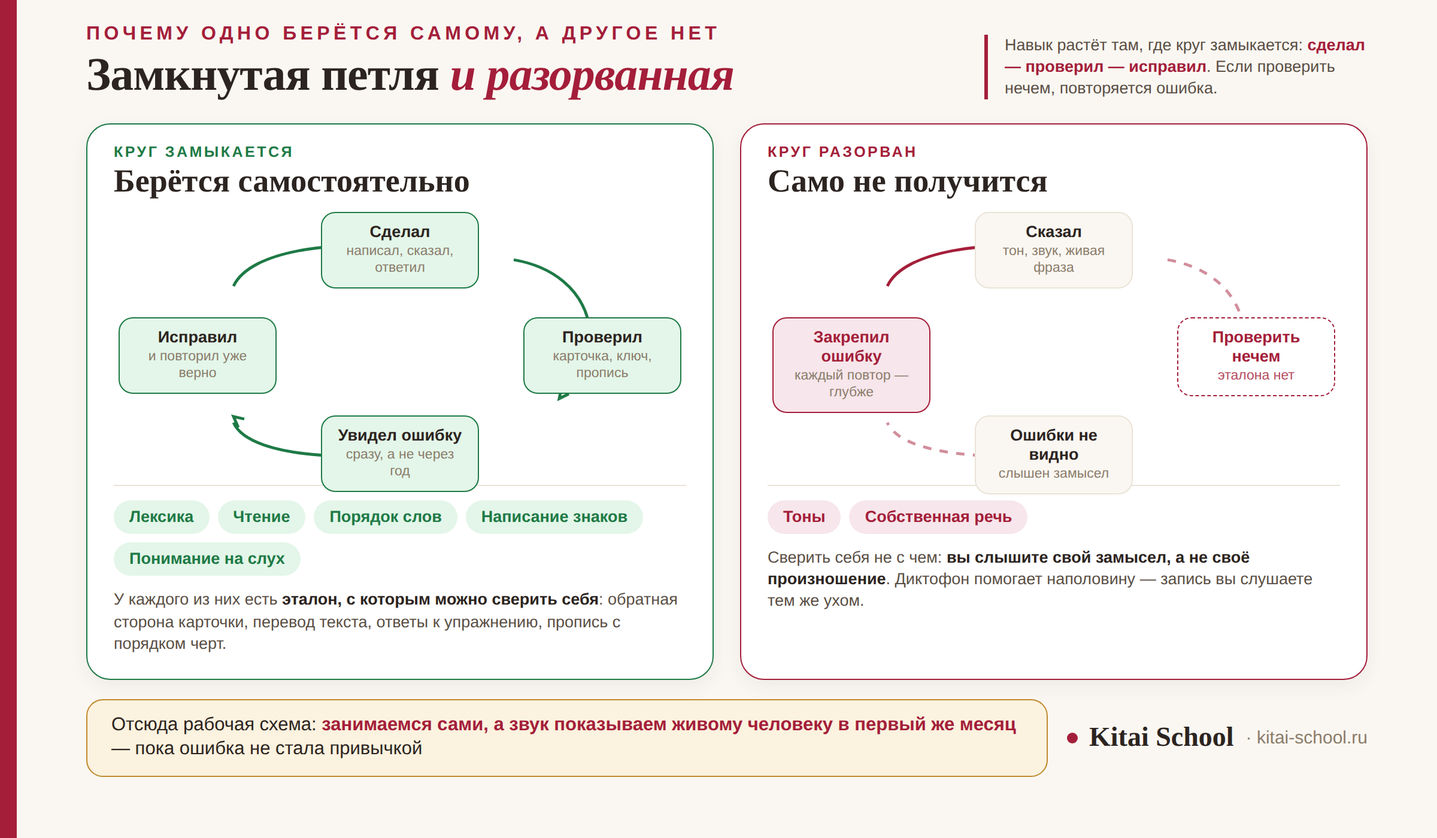
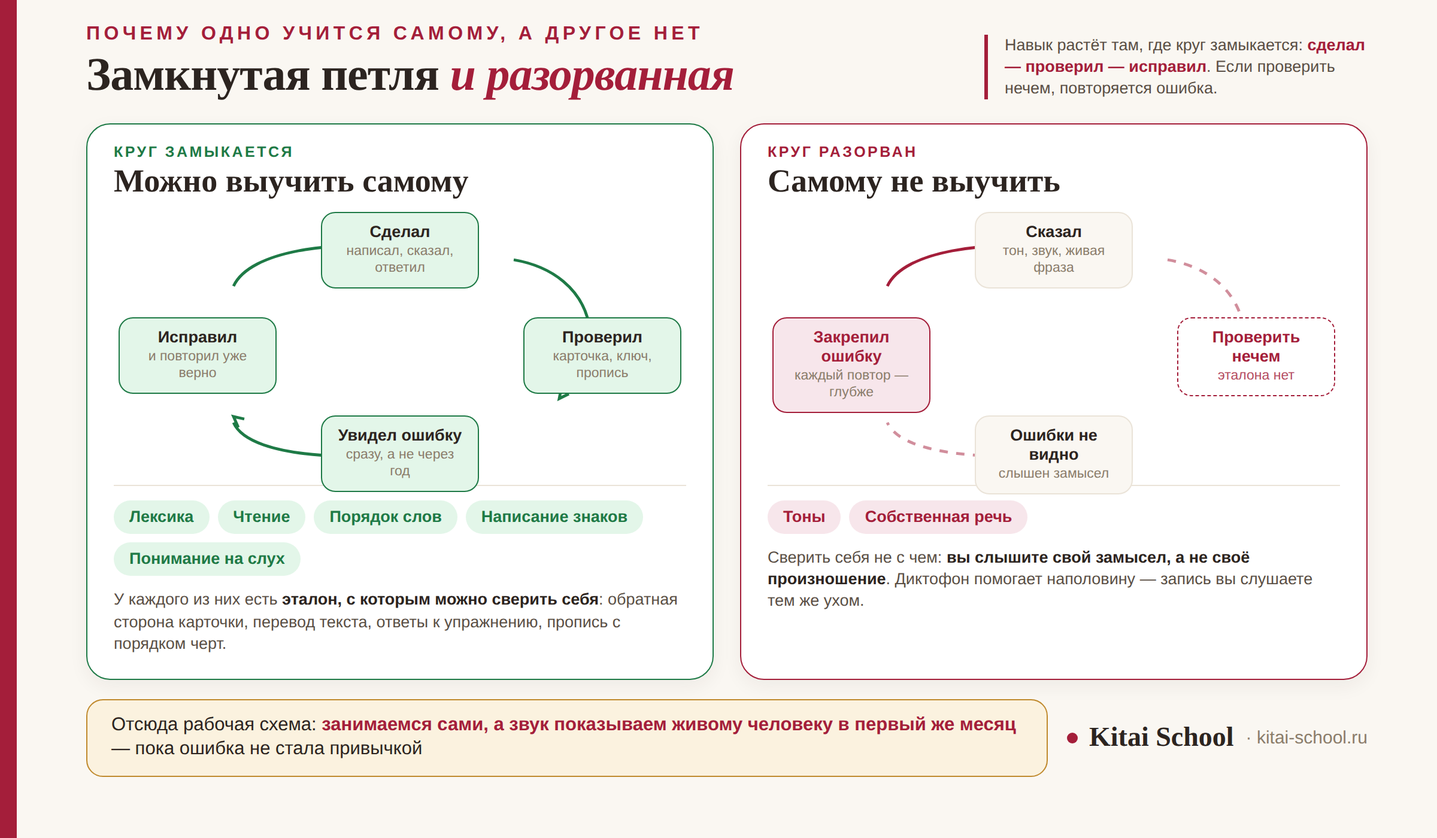
Заменить формулировку «берётся самому» на «можно выучить самому»
Правка по всей статье, обеим картинкам, тайтлу, дескрипшену и ТЗ.

Claude-Session: https://claude.ai/code/session_017dS7Wuw6MNB5fnZSr6hVh2

Changed region(s): [[0.1875, 0.0307, 0.5, 0.0614], [0.0625, 0.1843, 0.3438, 0.2457], [0.5938, 0.215, 0.75, 0.2457]]

diff --git a/content/blog/izuchenie-kitayskogo-yazyka-s-nulya.html b/content/blog/izuchenie-kitayskogo-yazyka-s-nulya.html
@@ -3,20 +3,20 @@
 <head>
 <meta charset="utf-8">
 <meta name="viewport" content="width=device-width, initial-scale=1">
-<title>Изучение китайского языка с нуля: с чего начать, что берётся самому и где нужен преподаватель</title>
-<meta name="description" content="Изучение китайского языка с нуля начинается не с иероглифов и не со списка слов, а с трёх дел первой недели. Разбираем, что в китайском спокойно берётся самостоятельно, а что без обратной связи закрепляется с ошибкой, какой минимальный набор нужен для старта — словарь, учебник, карточки — и что на самом деле стоит за обещаниями «150 слов» и «заговорить за три месяца».">
+<title>Изучение китайского языка с нуля: с чего начать, что можно выучить самому и где нужен преподаватель</title>
+<meta name="description" content="Изучение китайского языка с нуля начинается не с иероглифов и не со списка слов, а с трёх дел первой недели. Разбираем, что в китайском спокойно учится самостоятельно, а что без обратной связи закрепляется с ошибкой, какой минимальный набор нужен для старта — словарь, учебник, карточки — и что на самом деле стоит за обещаниями «150 слов» и «заговорить за три месяца».">
 <link rel="canonical" href="https://kitai-school.ru/article/izuchenie-kitayskogo-yazyka-s-nulya">
 <meta property="og:type" content="article">
-<meta property="og:title" content="Изучение китайского языка с нуля: с чего начать, что берётся самому и где нужен преподаватель">
-<meta property="og:description" content="Три дела первой недели, граница между тем, что берётся самому и что нет, минимальный набор для старта и честный разбор обещаний «150 слов» и «за три месяца».">
+<meta property="og:title" content="Изучение китайского языка с нуля: с чего начать, что можно выучить самому и где нужен преподаватель">
+<meta property="og:description" content="Три дела первой недели, граница между тем, что можно выучить самому и что нет, минимальный набор для старта и честный разбор обещаний «150 слов» и «за три месяца».">
 <meta property="og:url" content="https://kitai-school.ru/article/izuchenie-kitayskogo-yazyka-s-nulya">
 <meta property="og:site_name" content="Kitai School">
 <meta property="og:locale" content="ru_RU">
 <meta property="article:published_time" content="2026-09-08">
 <meta property="article:author" content="Юлия Горяина">
 <meta name="twitter:card" content="summary_large_image">
-<meta name="twitter:title" content="Изучение китайского языка с нуля: с чего начать, что берётся самому и где нужен преподаватель">
-<meta name="twitter:description" content="Три дела первой недели, граница между тем, что берётся самому и что нет, минимальный набор для старта и честный разбор обещаний «150 слов» и «за три месяца».">
+<meta name="twitter:title" content="Изучение китайского языка с нуля: с чего начать, что можно выучить самому и где нужен преподаватель">
+<meta name="twitter:description" content="Три дела первой недели, граница между тем, что можно выучить самому и что нет, минимальный набор для старта и честный разбор обещаний «150 слов» и «за три месяца».">
 
 <script type="application/ld+json">
 {
@@ -25,8 +25,8 @@
     {
       "@type": "BlogPosting",
       "@id": "https://kitai-school.ru/article/izuchenie-kitayskogo-yazyka-s-nulya#article",
-      "headline": "Изучение китайского языка с нуля: с чего начать, что берётся самому и где нужен преподаватель",
-      "description": "Три дела первой недели, граница между тем, что берётся самому и что нет, минимальный набор для старта и честный разбор обещаний «150 слов» и «за три месяца».",
+      "headline": "Изучение китайского языка с нуля: с чего начать, что можно выучить самому и где нужен преподаватель",
+      "description": "Три дела первой недели, граница между тем, что можно выучить самому и что нет, минимальный набор для старта и честный разбор обещаний «150 слов» и «за три месяца».",
       "datePublished": "2026-09-08",
       "dateModified": "2026-09-08",
       "inLanguage": "ru",
@@ -62,7 +62,7 @@
         {
           "@type": "Question",
           "name": "Можно ли выучить китайский с нуля самостоятельно?",
-          "acceptedAnswer": {"@type": "Answer", "text": "Частично — и важно понимать, где проходит граница. Всё, что можно проверить самому, берётся самостоятельно прекрасно: лексика по карточкам, чтение с переводом, порядок слов по упражнениям с ответами, написание знаков по прописи. А вот тоны и собственная речь — нет: у них нет способа самопроверки, потому что вы слышите то, что хотели сказать, а не то, что сказали. Ошибка в тоне закрепляется за пару недель, а переучивается месяцами. Разумный вариант — самостоятельная работа плюс несколько занятий с преподавателем именно на постановку звука."}
+          "acceptedAnswer": {"@type": "Answer", "text": "Частично — и важно понимать, где проходит граница. Всё, что можно проверить самому, учится прекрасно: лексика по карточкам, чтение с переводом, порядок слов по упражнениям с ответами, написание знаков по прописи. А вот тоны и собственная речь — нет: у них нет способа самопроверки, потому что вы слышите то, что хотели сказать, а не то, что сказали. Ошибка в тоне закрепляется за пару недель, а переучивается месяцами. Разумный вариант — самостоятельная работа плюс несколько занятий с преподавателем именно на постановку звука."}
         },
         {
           "@type": "Question",
@@ -92,7 +92,7 @@
       "itemListElement": [
         {"@type": "ListItem", "position": 1, "name": "Главная", "item": "https://kitai-school.ru"},
         {"@type": "ListItem", "position": 2, "name": "Блог", "item": "https://kitai-school.ru/blog"},
-        {"@type": "ListItem", "position": 3, "name": "Изучение китайского языка с нуля: с чего начать, что берётся самому и где нужен преподаватель", "item": "https://kitai-school.ru/article/izuchenie-kitayskogo-yazyka-s-nulya"}
+        {"@type": "ListItem", "position": 3, "name": "Изучение китайского языка с нуля: с чего начать, что можно выучить самому и где нужен преподаватель", "item": "https://kitai-school.ru/article/izuchenie-kitayskogo-yazyka-s-nulya"}
       ]
     }
   ]
@@ -223,7 +223,7 @@
 <main id="ks-art">
 <article>
 <p class="eyebrow">О языке и обучении</p>
-<h1>Изучение китайского языка с нуля: <span class="italic">с чего начать, что берётся самому и где нужен преподаватель</span></h1>
+<h1>Изучение китайского языка с нуля: <span class="italic">с чего начать, что можно выучить самому и где нужен преподаватель</span></h1>
 
 <div class="byline">
   <a href="https://kitai-school.ru/about" target="_blank" rel="noopener"><img src="https://static.tildacdn.com/tild3265-6431-4361-a262-343162663636/DSC01652_1.jpg" alt="Юлия Горяина, основатель Kitai School"></a>
@@ -236,11 +236,11 @@
 
 <figure class="ks-hero"><img src="assets/izuchenie-kitayskogo-yazyka-s-nulya.png" alt="Три дорожки от нуля: звук, знак и фраза" width="1200" height="630"></figure>
 
-<p class="passport">Почти все, кто начинает <b>учить китайский с нуля</b>, спотыкаются об один и тот же вопрос: с чего вообще браться. Иероглифы выглядят непреодолимо, списки слов лежат мёртвым грузом, а приложений столько, что выбор превращается в отдельное занятие. Разберём старт по делу: что делают в первую неделю, что в китайском спокойно берётся самому, а что без живого человека закрепляется с ошибкой.</p>
+<p class="passport">Почти все, кто начинает <b>учить китайский с нуля</b>, спотыкаются об один и тот же вопрос: с чего вообще браться. Иероглифы выглядят непреодолимо, списки слов лежат мёртвым грузом, а приложений столько, что выбор превращается в отдельное занятие. Разберём старт по делу: что делают в первую неделю, что в китайском спокойно учится самому, а что без живого человека закрепляется с ошибкой.</p>
 
 <div class="tldr">
   <b>Коротко</b>
-  <p>Первая неделя — это <b>не иероглифы и не список слов</b>, а три вещи: услышать четыре тона, разобрать пиньинь как правила чтения и произнести вслух десяток фраз. Дальше работает простое правило: <b>самому берётся всё, что можно проверить</b> — лексика, чтение, порядок слов, написание знаков. Не берётся то, где проверить нечем: тоны и собственная речь. Набор для старта маленький: словарь, учебник с аудио и карточки. Обещания «150 слов» и «заговорить за три месяца» не врут, но означают не то, что кажется.</p>
+  <p>Первая неделя — это <b>не иероглифы и не список слов</b>, а три вещи: услышать четыре тона, разобрать пиньинь как правила чтения и произнести вслух десяток фраз. Дальше работает простое правило: <b>самому учится всё, что можно проверить</b> — лексика, чтение, порядок слов, написание знаков. Не учится то, где проверить нечем: тоны и собственная речь. Набор для старта маленький: словарь, учебник с аудио и карточки. Обещания «150 слов» и «заговорить за три месяца» не врут, но означают не то, что кажется.</p>
 </div>
 
 <h2>Первая неделя: <span class="italic">три дела вместо тридцати</span></h2>
@@ -258,7 +258,7 @@
 </div>
 <p class="note">И столь же важно, чего в первую неделю <b>не делают</b>: не учат список слов, не садятся прописывать иероглифы и не покупают три учебника разом. Знаки подключают следующим шагом, когда несколько десятков слов уже звучат уверенно — весь маршрут по шагам разобран отдельно, по <a href="https://kitai-school.ru/article/tapy-izucheniya-kitayskogo" target="_blank" rel="noopener">этапам изучения китайского</a>.</p>
 
-<h2>Что берётся самому, <span class="italic">а что нет</span></h2>
+<h2>Что можно выучить самому, <span class="italic">а что нет</span></h2>
 <p>Здесь обычно и ломается самостоятельное обучение — но не там, где ждут. Дело не в силе воли и не в способностях, а в устройстве обратной связи.</p>
 <p>Любой навык растёт по кругу: сделал — проверил — исправил. Если проверить себя нечем, круг разрывается: вы продолжаете повторять, но повторяете <b>ошибку</b>, и с каждым разом она садится прочнее.</p>
 <div class="table-wrap">
@@ -266,17 +266,17 @@
   <caption>Где проверка есть, а где её нет.</caption>
   <thead><tr><th>Что осваиваем</th><th>Чем проверить себя</th><th>Вывод</th></tr></thead>
   <tbody>
-    <tr><td><b>Лексика</b></td><td>обратная сторона карточки</td><td class="ok">берётся самому</td></tr>
-    <tr><td><b>Чтение</b></td><td>текст с переводом и разбором</td><td class="ok">берётся самому</td></tr>
-    <tr><td><b>Порядок слов</b></td><td>ответы к упражнениям</td><td class="ok">берётся самому</td></tr>
-    <tr><td><b>Написание знаков</b></td><td>пропись с порядком черт</td><td class="ok">берётся самому, если сразу с прописью</td></tr>
-    <tr><td><b>Понимание на слух</b></td><td>расшифровка записи</td><td class="ok">берётся самому</td></tr>
+    <tr><td><b>Лексика</b></td><td>обратная сторона карточки</td><td class="ok">можно самому</td></tr>
+    <tr><td><b>Чтение</b></td><td>текст с переводом и разбором</td><td class="ok">можно самому</td></tr>
+    <tr><td><b>Порядок слов</b></td><td>ответы к упражнениям</td><td class="ok">можно самому</td></tr>
+    <tr><td><b>Написание знаков</b></td><td>пропись с порядком черт</td><td class="ok">можно самому, если сразу с прописью</td></tr>
+    <tr><td><b>Понимание на слух</b></td><td>расшифровка записи</td><td class="ok">можно самому</td></tr>
     <tr><td class="bad"><b>Тоны</b></td><td class="bad">нечем: свою ошибку не слышно</td><td class="bad">нужен живой человек</td></tr>
     <tr><td class="bad"><b>Собственная речь</b></td><td class="bad">нечем: некому переспросить</td><td class="bad">нужен живой человек</td></tr>
   </tbody>
 </table>
 </div>
-<figure class="ks-fig"><img src="assets/izuchenie-kitayskogo-yazyka-s-nulya-petlya.png" alt="Замкнутая и разорванная петля обратной связи в изучении языка" loading="lazy" width="1200" height="700"><figcaption>Всё, что можно проверить самому, берётся самостоятельно. Там, где проверить нечем, повторение закрепляет ошибку.</figcaption></figure>
+<figure class="ks-fig"><img src="assets/izuchenie-kitayskogo-yazyka-s-nulya-petlya.png" alt="Замкнутая и разорванная петля обратной связи в изучении языка" loading="lazy" width="1200" height="700"><figcaption>Всё, что можно проверить самому, учится самостоятельно. Там, где проверить нечем, повторение закрепляет ошибку.</figcaption></figure>
 <p class="note">Причина у двух последних строк одна и совсем не очевидная: <b>вы слышите то, что хотели сказать, а не то, что сказали</b>. Диктофон помогает наполовину, потому что и запись вы слушаете тем же ухом. Ошибка в тоне садится за пару недель, а переучивается месяцами — поэтому разумная схема выглядит так: работаем сами, а на постановку звука берём несколько занятий с преподавателем. Что именно там ставят, разобрано в статье о <a href="https://kitai-school.ru/article/korrektirovka-proiznosheniya-v-kitayskom" target="_blank" rel="noopener">корректировке произношения</a>.</p>
 
 <div class="story">
@@ -343,7 +343,7 @@
   </details>
   <details class="ksfaq-item">
     <summary class="ksfaq-q"><span>Можно ли выучить китайский с нуля самостоятельно?</span><i class="ksfaq-chev"></i></summary>
-    <div class="ksfaq-a"><p>Частично — и важно понимать, где проходит граница. Всё, что можно проверить самому, берётся самостоятельно прекрасно: лексика по карточкам, чтение с переводом, порядок слов по упражнениям с ответами, написание знаков по прописи. А вот тоны и собственная речь — нет: у них нет способа самопроверки, потому что вы слышите то, что хотели сказать, а не то, что сказали. Ошибка в тоне закрепляется за пару недель, а переучивается месяцами. Разумный вариант — самостоятельная работа плюс несколько занятий с преподавателем именно на постановку звука.</p></div>
+    <div class="ksfaq-a"><p>Частично — и важно понимать, где проходит граница. Всё, что можно проверить самому, учится прекрасно: лексика по карточкам, чтение с переводом, порядок слов по упражнениям с ответами, написание знаков по прописи. А вот тоны и собственная речь — нет: у них нет способа самопроверки, потому что вы слышите то, что хотели сказать, а не то, что сказали. Ошибка в тоне закрепляется за пару недель, а переучивается месяцами. Разумный вариант — самостоятельная работа плюс несколько занятий с преподавателем именно на постановку звука.</p></div>
   </details>
   <details class="ksfaq-item">
     <summary class="ksfaq-q"><span>Какие приложения и учебники нужны для старта?</span><i class="ksfaq-chev"></i></summary>

diff --git a/content/blog/izuchenie-kitayskogo-yazyka-s-nulya.TILDA.html b/content/blog/izuchenie-kitayskogo-yazyka-s-nulya.TILDA.html
@@ -122,8 +122,8 @@
     {
       "@type": "BlogPosting",
       "@id": "https://kitai-school.ru/article/izuchenie-kitayskogo-yazyka-s-nulya#article",
-      "headline": "Изучение китайского языка с нуля: с чего начать, что берётся самому и где нужен преподаватель",
-      "description": "Три дела первой недели, граница между тем, что берётся самому и что нет, минимальный набор для старта и честный разбор обещаний «150 слов» и «за три месяца».",
+      "headline": "Изучение китайского языка с нуля: с чего начать, что можно выучить самому и где нужен преподаватель",
+      "description": "Три дела первой недели, граница между тем, что можно выучить самому и что нет, минимальный набор для старта и честный разбор обещаний «150 слов» и «за три месяца».",
       "datePublished": "2026-09-08",
       "dateModified": "2026-09-08",
       "inLanguage": "ru",
@@ -159,7 +159,7 @@
         {
           "@type": "Question",
           "name": "Можно ли выучить китайский с нуля самостоятельно?",
-          "acceptedAnswer": {"@type": "Answer", "text": "Частично — и важно понимать, где проходит граница. Всё, что можно проверить самому, берётся самостоятельно прекрасно: лексика по карточкам, чтение с переводом, порядок слов по упражнениям с ответами, написание знаков по прописи. А вот тоны и собственная речь — нет: у них нет способа самопроверки, потому что вы слышите то, что хотели сказать, а не то, что сказали. Ошибка в тоне закрепляется за пару недель, а переучивается месяцами. Разумный вариант — самостоятельная работа плюс несколько занятий с преподавателем именно на постановку звука."}
+          "acceptedAnswer": {"@type": "Answer", "text": "Частично — и важно понимать, где проходит граница. Всё, что можно проверить самому, учится прекрасно: лексика по карточкам, чтение с переводом, порядок слов по упражнениям с ответами, написание знаков по прописи. А вот тоны и собственная речь — нет: у них нет способа самопроверки, потому что вы слышите то, что хотели сказать, а не то, что сказали. Ошибка в тоне закрепляется за пару недель, а переучивается месяцами. Разумный вариант — самостоятельная работа плюс несколько занятий с преподавателем именно на постановку звука."}
         },
         {
           "@type": "Question",
@@ -189,7 +189,7 @@
       "itemListElement": [
         {"@type": "ListItem", "position": 1, "name": "Главная", "item": "https://kitai-school.ru"},
         {"@type": "ListItem", "position": 2, "name": "Блог", "item": "https://kitai-school.ru/blog"},
-        {"@type": "ListItem", "position": 3, "name": "Изучение китайского языка с нуля: с чего начать, что берётся самому и где нужен преподаватель", "item": "https://kitai-school.ru/article/izuchenie-kitayskogo-yazyka-s-nulya"}
+        {"@type": "ListItem", "position": 3, "name": "Изучение китайского языка с нуля: с чего начать, что можно выучить самому и где нужен преподаватель", "item": "https://kitai-school.ru/article/izuchenie-kitayskogo-yazyka-s-nulya"}
       ]
     }
   ]
@@ -199,7 +199,7 @@
 <main id="ks-art">
 <article>
 <p class="eyebrow">О языке и обучении</p>
-<h1>Изучение китайского языка с нуля: <span class="italic">с чего начать, что берётся самому и где нужен преподаватель</span></h1>
+<h1>Изучение китайского языка с нуля: <span class="italic">с чего начать, что можно выучить самому и где нужен преподаватель</span></h1>
 
 <div class="byline">
   <a href="https://kitai-school.ru/about" target="_blank" rel="noopener"><img src="https://static.tildacdn.com/tild3265-6431-4361-a262-343162663636/DSC01652_1.jpg" alt="Юлия Горяина, основатель Kitai School"></a>
@@ -212,11 +212,11 @@
 
 <figure class="ks-hero"><img src="assets/izuchenie-kitayskogo-yazyka-s-nulya.png" alt="Три дорожки от нуля: звук, знак и фраза" width="1200" height="630"></figure>
 
-<p class="passport">Почти все, кто начинает <b>учить китайский с нуля</b>, спотыкаются об один и тот же вопрос: с чего вообще браться. Иероглифы выглядят непреодолимо, списки слов лежат мёртвым грузом, а приложений столько, что выбор превращается в отдельное занятие. Разберём старт по делу: что делают в первую неделю, что в китайском спокойно берётся самому, а что без живого человека закрепляется с ошибкой.</p>
+<p class="passport">Почти все, кто начинает <b>учить китайский с нуля</b>, спотыкаются об один и тот же вопрос: с чего вообще браться. Иероглифы выглядят непреодолимо, списки слов лежат мёртвым грузом, а приложений столько, что выбор превращается в отдельное занятие. Разберём старт по делу: что делают в первую неделю, что в китайском спокойно учится самому, а что без живого человека закрепляется с ошибкой.</p>
 
 <div class="tldr">
   <b>Коротко</b>
-  <p>Первая неделя — это <b>не иероглифы и не список слов</b>, а три вещи: услышать четыре тона, разобрать пиньинь как правила чтения и произнести вслух десяток фраз. Дальше работает простое правило: <b>самому берётся всё, что можно проверить</b> — лексика, чтение, порядок слов, написание знаков. Не берётся то, где проверить нечем: тоны и собственная речь. Набор для старта маленький: словарь, учебник с аудио и карточки. Обещания «150 слов» и «заговорить за три месяца» не врут, но означают не то, что кажется.</p>
+  <p>Первая неделя — это <b>не иероглифы и не список слов</b>, а три вещи: услышать четыре тона, разобрать пиньинь как правила чтения и произнести вслух десяток фраз. Дальше работает простое правило: <b>самому учится всё, что можно проверить</b> — лексика, чтение, порядок слов, написание знаков. Не учится то, где проверить нечем: тоны и собственная речь. Набор для старта маленький: словарь, учебник с аудио и карточки. Обещания «150 слов» и «заговорить за три месяца» не врут, но означают не то, что кажется.</p>
 </div>
 
 <h2>Первая неделя: <span class="italic">три дела вместо тридцати</span></h2>
@@ -234,7 +234,7 @@
 </div>
 <p class="note">И столь же важно, чего в первую неделю <b>не делают</b>: не учат список слов, не садятся прописывать иероглифы и не покупают три учебника разом. Знаки подключают следующим шагом, когда несколько десятков слов уже звучат уверенно — весь маршрут по шагам разобран отдельно, по <a href="https://kitai-school.ru/article/tapy-izucheniya-kitayskogo" target="_blank" rel="noopener">этапам изучения китайского</a>.</p>
 
-<h2>Что берётся самому, <span class="italic">а что нет</span></h2>
+<h2>Что можно выучить самому, <span class="italic">а что нет</span></h2>
 <p>Здесь обычно и ломается самостоятельное обучение — но не там, где ждут. Дело не в силе воли и не в способностях, а в устройстве обратной связи.</p>
 <p>Любой навык растёт по кругу: сделал — проверил — исправил. Если проверить себя нечем, круг разрывается: вы продолжаете повторять, но повторяете <b>ошибку</b>, и с каждым разом она садится прочнее.</p>
 <div class="table-wrap">
@@ -242,17 +242,17 @@
   <caption>Где проверка есть, а где её нет.</caption>
   <thead><tr><th>Что осваиваем</th><th>Чем проверить себя</th><th>Вывод</th></tr></thead>
   <tbody>
-    <tr><td><b>Лексика</b></td><td>обратная сторона карточки</td><td class="ok">берётся самому</td></tr>
-    <tr><td><b>Чтение</b></td><td>текст с переводом и разбором</td><td class="ok">берётся самому</td></tr>
-    <tr><td><b>Порядок слов</b></td><td>ответы к упражнениям</td><td class="ok">берётся самому</td></tr>
-    <tr><td><b>Написание знаков</b></td><td>пропись с порядком черт</td><td class="ok">берётся самому, если сразу с прописью</td></tr>
-    <tr><td><b>Понимание на слух</b></td><td>расшифровка записи</td><td class="ok">берётся самому</td></tr>
+    <tr><td><b>Лексика</b></td><td>обратная сторона карточки</td><td class="ok">можно самому</td></tr>
+    <tr><td><b>Чтение</b></td><td>текст с переводом и разбором</td><td class="ok">можно самому</td></tr>
+    <tr><td><b>Порядок слов</b></td><td>ответы к упражнениям</td><td class="ok">можно самому</td></tr>
+    <tr><td><b>Написание знаков</b></td><td>пропись с порядком черт</td><td class="ok">можно самому, если сразу с прописью</td></tr>
+    <tr><td><b>Понимание на слух</b></td><td>расшифровка записи</td><td class="ok">можно самому</td></tr>
     <tr><td class="bad"><b>Тоны</b></td><td class="bad">нечем: свою ошибку не слышно</td><td class="bad">нужен живой человек</td></tr>
     <tr><td class="bad"><b>Собственная речь</b></td><td class="bad">нечем: некому переспросить</td><td class="bad">нужен живой человек</td></tr>
   </tbody>
 </table>
 </div>
-<figure class="ks-fig"><img src="assets/izuchenie-kitayskogo-yazyka-s-nulya-petlya.png" alt="Замкнутая и разорванная петля обратной связи в изучении языка" loading="lazy" width="1200" height="700"><figcaption>Всё, что можно проверить самому, берётся самостоятельно. Там, где проверить нечем, повторение закрепляет ошибку.</figcaption></figure>
+<figure class="ks-fig"><img src="assets/izuchenie-kitayskogo-yazyka-s-nulya-petlya.png" alt="Замкнутая и разорванная петля обратной связи в изучении языка" loading="lazy" width="1200" height="700"><figcaption>Всё, что можно проверить самому, учится самостоятельно. Там, где проверить нечем, повторение закрепляет ошибку.</figcaption></figure>
 <p class="note">Причина у двух последних строк одна и совсем не очевидная: <b>вы слышите то, что хотели сказать, а не то, что сказали</b>. Диктофон помогает наполовину, потому что и запись вы слушаете тем же ухом. Ошибка в тоне садится за пару недель, а переучивается месяцами — поэтому разумная схема выглядит так: работаем сами, а на постановку звука берём несколько занятий с преподавателем. Что именно там ставят, разобрано в статье о <a href="https://kitai-school.ru/article/korrektirovka-proiznosheniya-v-kitayskom" target="_blank" rel="noopener">корректировке произношения</a>.</p>
 
 <div class="story">
@@ -319,7 +319,7 @@
   </details>
   <details class="ksfaq-item">
     <summary class="ksfaq-q"><span>Можно ли выучить китайский с нуля самостоятельно?</span><i class="ksfaq-chev"></i></summary>
-    <div class="ksfaq-a"><p>Частично — и важно понимать, где проходит граница. Всё, что можно проверить самому, берётся самостоятельно прекрасно: лексика по карточкам, чтение с переводом, порядок слов по упражнениям с ответами, написание знаков по прописи. А вот тоны и собственная речь — нет: у них нет способа самопроверки, потому что вы слышите то, что хотели сказать, а не то, что сказали. Ошибка в тоне закрепляется за пару недель, а переучивается месяцами. Разумный вариант — самостоятельная работа плюс несколько занятий с преподавателем именно на постановку звука.</p></div>
+    <div class="ksfaq-a"><p>Частично — и важно понимать, где проходит граница. Всё, что можно проверить самому, учится прекрасно: лексика по карточкам, чтение с переводом, порядок слов по упражнениям с ответами, написание знаков по прописи. А вот тоны и собственная речь — нет: у них нет способа самопроверки, потому что вы слышите то, что хотели сказать, а не то, что сказали. Ошибка в тоне закрепляется за пару недель, а переучивается месяцами. Разумный вариант — самостоятельная работа плюс несколько занятий с преподавателем именно на постановку звука.</p></div>
   </details>
   <details class="ksfaq-item">
     <summary class="ksfaq-q"><span>Какие приложения и учебники нужны для старта?</span><i class="ksfaq-chev"></i></summary>

diff --git a/content/build-izuchenie-s-nulya.py b/content/build-izuchenie-s-nulya.py
@@ -18,12 +18,12 @@ pos = re.search(r'    <a class="side-link" href="https://kitai-school\.ru/hsk-ex
 SIDE = SIDE[:pos] + link + SIDE[pos:]
 
 URL   = "https://kitai-school.ru/article/izuchenie-kitayskogo-yazyka-s-nulya"
-TITLE = "Изучение китайского языка с нуля: с чего начать, что берётся самому и где нужен преподаватель"
+TITLE = "Изучение китайского языка с нуля: с чего начать, что можно выучить самому и где нужен преподаватель"
 DESC  = ("Изучение китайского языка с нуля начинается не с иероглифов и не со списка слов, а с трёх дел первой недели. "
-         "Разбираем, что в китайском спокойно берётся самостоятельно, а что без обратной связи закрепляется с ошибкой, "
+         "Разбираем, что в китайском спокойно учится самостоятельно, а что без обратной связи закрепляется с ошибкой, "
          "какой минимальный набор нужен для старта — словарь, учебник, карточки — и что на самом деле стоит "
          "за обещаниями «150 слов» и «заговорить за три месяца».")
-OGD   = ("Три дела первой недели, граница между тем, что берётся самому и что нет, минимальный набор для старта "
+OGD   = ("Три дела первой недели, граница между тем, что можно выучить самому и что нет, минимальный набор для старта "
          "и честный разбор обещаний «150 слов» и «за три месяца».")
 HERO  = "assets/izuchenie-kitayskogo-yazyka-s-nulya.png"
 FIG   = "assets/izuchenie-kitayskogo-yazyka-s-nulya-petlya.png"
@@ -32,7 +32,7 @@ FAQ = [
 ("С чего начать изучение китайского языка с нуля?",
  "С трёх дел, и ни одно из них не про иероглифы. Первое: научиться слышать разницу между четырьмя тонами на одном слоге — не заучивать, а именно различать на слух. Второе: разобрать пиньинь как правила чтения, потому что читается он не так, как выглядит по-латински. Третье: собрать вслух десяток бытовых фраз. Через неделю у вас будет не запас слов, а работающий слух и способность произнести что-то узнаваемое. Иероглифы подключают следующим шагом, когда несколько десятков слов уже звучат уверенно."),
 ("Можно ли выучить китайский с нуля самостоятельно?",
- "Частично — и важно понимать, где проходит граница. Всё, что можно проверить самому, берётся самостоятельно прекрасно: лексика по карточкам, чтение с переводом, порядок слов по упражнениям с ответами, написание знаков по прописи. А вот тоны и собственная речь — нет: у них нет способа самопроверки, потому что вы слышите то, что хотели сказать, а не то, что сказали. Ошибка в тоне закрепляется за пару недель, а переучивается месяцами. Разумный вариант — самостоятельная работа плюс несколько занятий с преподавателем именно на постановку звука."),
+ "Частично — и важно понимать, где проходит граница. Всё, что можно проверить самому, учится прекрасно: лексика по карточкам, чтение с переводом, порядок слов по упражнениям с ответами, написание знаков по прописи. А вот тоны и собственная речь — нет: у них нет способа самопроверки, потому что вы слышите то, что хотели сказать, а не то, что сказали. Ошибка в тоне закрепляется за пару недель, а переучивается месяцами. Разумный вариант — самостоятельная работа плюс несколько занятий с преподавателем именно на постановку звука."),
 ("Какие приложения и учебники нужны для старта?",
  "Набор небольшой: словарь, учебник и карточки для повторения. Словарь нужен такой, где можно нарисовать незнакомый знак пальцем и найти его по написанию — такую возможность даёт, например, Pleco. Учебник лучше брать привязанный к уровням HSK, чтобы был понятный порядок и аудио носителя: этому отвечают «Стандартный курс HSK» и «Новый практический курс китайского языка». Карточки удобно вести в программе с интервальным повторением вроде Anki. Главное помнить: приложение — это инструмент повторения, а не программа обучения."),
 ("Правда ли, что достаточно выучить первые 150 слов?",
@@ -145,7 +145,7 @@ BODY = """<body>
 <main id="ks-art">
 <article>
 <p class="eyebrow">О языке и обучении</p>
-<h1>Изучение китайского языка с нуля: <span class="italic">с чего начать, что берётся самому и где нужен преподаватель</span></h1>
+<h1>Изучение китайского языка с нуля: <span class="italic">с чего начать, что можно выучить самому и где нужен преподаватель</span></h1>
 
 <div class="byline">
   <a href="https://kitai-school.ru/about" target="_blank" rel="noopener"><img src="https://static.tildacdn.com/tild3265-6431-4361-a262-343162663636/DSC01652_1.jpg" alt="Юлия Горяина, основатель Kitai School"></a>
@@ -158,11 +158,11 @@ BODY = """<body>
 
 <figure class="ks-hero"><img src="%(HERO)s" alt="Три дорожки от нуля: звук, знак и фраза" width="1200" height="630"></figure>
 
-<p class="passport">Почти все, кто начинает <b>учить китайский с нуля</b>, спотыкаются об один и тот же вопрос: с чего вообще браться. Иероглифы выглядят непреодолимо, списки слов лежат мёртвым грузом, а приложений столько, что выбор превращается в отдельное занятие. Разберём старт по делу: что делают в первую неделю, что в китайском спокойно берётся самому, а что без живого человека закрепляется с ошибкой.</p>
+<p class="passport">Почти все, кто начинает <b>учить китайский с нуля</b>, спотыкаются об один и тот же вопрос: с чего вообще браться. Иероглифы выглядят непреодолимо, списки слов лежат мёртвым грузом, а приложений столько, что выбор превращается в отдельное занятие. Разберём старт по делу: что делают в первую неделю, что в китайском спокойно учится самому, а что без живого человека закрепляется с ошибкой.</p>
 
 <div class="tldr">
   <b>Коротко</b>
-  <p>Первая неделя — это <b>не иероглифы и не список слов</b>, а три вещи: услышать четыре тона, разобрать пиньинь как правила чтения и произнести вслух десяток фраз. Дальше работает простое правило: <b>самому берётся всё, что можно проверить</b> — лексика, чтение, порядок слов, написание знаков. Не берётся то, где проверить нечем: тоны и собственная речь. Набор для старта маленький: словарь, учебник с аудио и карточки. Обещания «150 слов» и «заговорить за три месяца» не врут, но означают не то, что кажется.</p>
+  <p>Первая неделя — это <b>не иероглифы и не список слов</b>, а три вещи: услышать четыре тона, разобрать пиньинь как правила чтения и произнести вслух десяток фраз. Дальше работает простое правило: <b>самому учится всё, что можно проверить</b> — лексика, чтение, порядок слов, написание знаков. Не учится то, где проверить нечем: тоны и собственная речь. Набор для старта маленький: словарь, учебник с аудио и карточки. Обещания «150 слов» и «заговорить за три месяца» не врут, но означают не то, что кажется.</p>
 </div>
 
 <h2>Первая неделя: <span class="italic">три дела вместо тридцати</span></h2>
@@ -180,7 +180,7 @@ BODY = """<body>
 </div>
 <p class="note">И столь же важно, чего в первую неделю <b>не делают</b>: не учат список слов, не садятся прописывать иероглифы и не покупают три учебника разом. Знаки подключают следующим шагом, когда несколько десятков слов уже звучат уверенно — весь маршрут по шагам разобран отдельно, по %(ETAPY)s.</p>
 
-<h2>Что берётся самому, <span class="italic">а что нет</span></h2>
+<h2>Что можно выучить самому, <span class="italic">а что нет</span></h2>
 <p>Здесь обычно и ломается самостоятельное обучение — но не там, где ждут. Дело не в силе воли и не в способностях, а в устройстве обратной связи.</p>
 <p>Любой навык растёт по кругу: сделал — проверил — исправил. Если проверить себя нечем, круг разрывается: вы продолжаете повторять, но повторяете <b>ошибку</b>, и с каждым разом она садится прочнее.</p>
 <div class="table-wrap">
@@ -188,17 +188,17 @@ BODY = """<body>
   <caption>Где проверка есть, а где её нет.</caption>
   <thead><tr><th>Что осваиваем</th><th>Чем проверить себя</th><th>Вывод</th></tr></thead>
   <tbody>
-    <tr><td><b>Лексика</b></td><td>обратная сторона карточки</td><td class="ok">берётся самому</td></tr>
-    <tr><td><b>Чтение</b></td><td>текст с переводом и разбором</td><td class="ok">берётся самому</td></tr>
-    <tr><td><b>Порядок слов</b></td><td>ответы к упражнениям</td><td class="ok">берётся самому</td></tr>
-    <tr><td><b>Написание знаков</b></td><td>пропись с порядком черт</td><td class="ok">берётся самому, если сразу с прописью</td></tr>
-    <tr><td><b>Понимание на слух</b></td><td>расшифровка записи</td><td class="ok">берётся самому</td></tr>
+    <tr><td><b>Лексика</b></td><td>обратная сторона карточки</td><td class="ok">можно самому</td></tr>
+    <tr><td><b>Чтение</b></td><td>текст с переводом и разбором</td><td class="ok">можно самому</td></tr>
+    <tr><td><b>Порядок слов</b></td><td>ответы к упражнениям</td><td class="ok">можно самому</td></tr>
+    <tr><td><b>Написание знаков</b></td><td>пропись с порядком черт</td><td class="ok">можно самому, если сразу с прописью</td></tr>
+    <tr><td><b>Понимание на слух</b></td><td>расшифровка записи</td><td class="ok">можно самому</td></tr>
     <tr><td class="bad"><b>Тоны</b></td><td class="bad">нечем: свою ошибку не слышно</td><td class="bad">нужен живой человек</td></tr>
     <tr><td class="bad"><b>Собственная речь</b></td><td class="bad">нечем: некому переспросить</td><td class="bad">нужен живой человек</td></tr>
   </tbody>
 </table>
 </div>
-<figure class="ks-fig"><img src="%(FIG)s" alt="Замкнутая и разорванная петля обратной связи в изучении языка" loading="lazy" width="1200" height="700"><figcaption>Всё, что можно проверить самому, берётся самостоятельно. Там, где проверить нечем, повторение закрепляет ошибку.</figcaption></figure>
+<figure class="ks-fig"><img src="%(FIG)s" alt="Замкнутая и разорванная петля обратной связи в изучении языка" loading="lazy" width="1200" height="700"><figcaption>Всё, что можно проверить самому, учится самостоятельно. Там, где проверить нечем, повторение закрепляет ошибку.</figcaption></figure>
 <p class="note">Причина у двух последних строк одна и совсем не очевидная: <b>вы слышите то, что хотели сказать, а не то, что сказали</b>. Диктофон помогает наполовину, потому что и запись вы слушаете тем же ухом. Ошибка в тоне садится за пару недель, а переучивается месяцами — поэтому разумная схема выглядит так: работаем сами, а на постановку звука берём несколько занятий с преподавателем. Что именно там ставят, разобрано в статье о %(PROIZ)s.</p>
 
 <div class="story">

diff --git a/content/img-izuchenie-s-nulya.py b/content/img-izuchenie-s-nulya.py
@@ -113,7 +113,7 @@ h2 i{font-style:italic;color:var(--brick)}
 <div class="wrap">
   <div class="top">
     <div>
-      <div class="eyebrow">Почему одно берётся самому, а другое нет</div>
+      <div class="eyebrow">Почему одно учится самому, а другое нет</div>
       <h2>Замкнутая петля <i>и разорванная</i></h2>
     </div>
     <div class="hint">Навык растёт там, где круг замыкается: <b>сделал — проверил — исправил</b>. Если проверить нечем, повторяется ошибка.</div>
@@ -122,7 +122,7 @@ h2 i{font-style:italic;color:var(--brick)}
   <div class="pair">
     <div class="side ok">
       <div class="cap">Круг замыкается</div>
-      <h3>Берётся самостоятельно</h3>
+      <h3>Можно выучить самому</h3>
       <div class="loop">
         <svg viewBox="0 0 470 214">
           <path d="M330 40 C 400 52, 410 120, 372 150" fill="none" stroke="#1E7A46" stroke-width="2.4"/>
@@ -145,7 +145,7 @@ h2 i{font-style:italic;color:var(--brick)}
 
     <div class="side no">
       <div class="cap">Круг разорван</div>
-      <h3>Само не получится</h3>
+      <h3>Самому не выучить</h3>
       <div class="loop">
         <svg viewBox="0 0 470 214">
           <path d="M330 40 C 400 52, 410 120, 372 150" fill="none" stroke="#A41E3A" stroke-width="2.4" stroke-dasharray="7 7" opacity=".5"/>

diff --git a/content/tz-izuchenie-kitayskogo-yazyka-s-nulya.md b/content/tz-izuchenie-kitayskogo-yazyka-s-nulya.md
@@ -1,4 +1,4 @@
-# ТЗ на статью: «Изучение китайского языка с нуля: с чего начать, что берётся самому и где нужен преподаватель»
+# ТЗ на статью: «Изучение китайского языка с нуля: с чего начать, что можно выучить самому и где нужен преподаватель»
 
 **Раздел блога:** О языке и обучении
 **URL (ЧПУ):** `/article/izuchenie-kitayskogo-yazyka-s-nulya`
@@ -33,7 +33,7 @@
 
 | Обещание брифа | Что с ним | Что в статье |
 |---|---|---|
-| «Всё о старте без преподавателя и курсов» | **переформулировано честно** | не «как обойтись без преподавателя», а **где именно проходит граница**: что берётся самому, а что закрепляется с ошибкой. Это и есть настоящий ответ на запрос |
+| «Всё о старте без преподавателя и курсов» | **переформулировано честно** | не «как обойтись без преподавателя», а **где именно проходит граница**: что можно выучить самому, а что закрепляется с ошибкой. Это и есть настоящий ответ на запрос |
 | «Система обучения с нуля» | сужено до первой недели | три дела первой недели + ссылка на этапы |
 | «Приложения и учебники» | выполнено | отдельный H2: словарь, учебник, карточки, аудио — и критерии выбора |
 | «Поставить произношение самостоятельно» | **скорректировано по факту** | самостоятельно ставится наполовину: свою ошибку в тоне не слышно. Прямо сказано, почему |
@@ -62,10 +62,10 @@
 
 | Поле | Значение |
 |---|---|
-| **Title** | Изучение китайского языка с нуля: с чего начать, что берётся самому и где нужен преподаватель |
-| **Description** | Изучение китайского языка с нуля начинается не с иероглифов и не со списка слов, а с трёх дел первой недели. Разбираем, что в китайском спокойно берётся самостоятельно, а что без обратной связи закрепляется с ошибкой, какой минимальный набор нужен для старта — словарь, учебник, карточки — и что на самом деле стоит за обещаниями «150 слов» и «заговорить за три месяца». |
+| **Title** | Изучение китайского языка с нуля: с чего начать, что можно выучить самому и где нужен преподаватель |
+| **Description** | Изучение китайского языка с нуля начинается не с иероглифов и не со списка слов, а с трёх дел первой недели. Разбираем, что в китайском спокойно учится самостоятельно, а что без обратной связи закрепляется с ошибкой, какой минимальный набор нужен для старта — словарь, учебник, карточки — и что на самом деле стоит за обещаниями «150 слов» и «заговорить за три месяца». |
 | **og:title / twitter:title** | как Title |
-| **og:description / twitter:description** | Три дела первой недели, граница между тем, что берётся самому и что нет, минимальный набор для старта и честный разбор обещаний «150 слов» и «за три месяца». |
+| **og:description / twitter:description** | Три дела первой недели, граница между тем, что можно выучить самому и что нет, минимальный набор для старта и честный разбор обещаний «150 слов» и «за три месяца». |
 | **canonical** | https://kitai-school.ru/article/izuchenie-kitayskogo-yazyka-s-nulya |
 | **Дата публикации** | 8 сентября 2026 |
 
@@ -78,7 +78,7 @@
 | # | H2 | Что внутри |
 |---|---|---|
 | 1 | Первая неделя: три дела вместо тридцати | таблица: что делаем, зачем именно это, как понять, что получилось. Плюс чего в первую неделю не делают |
-| 2 | Что берётся самому, а что нет | механизм обратной связи, **инфографика**, таблица из семи навыков |
+| 2 | Что можно выучить самому, а что нет | механизм обратной связи, **инфографика**, таблица из семи навыков |
 | — | Из личного опыта | студент, который восемь месяцев закреплял третий тон |
 | 3 | Минимальный набор: словарь, учебник, карточки | что нужно и на что смотреть при выборе |
 | 4 | Про «150 слов» и «три месяца»: что за этими обещаниями стоит | разбор двух формулировок из брифа |
@@ -95,7 +95,7 @@
 | # | Файл | Размер | Что на ней | Зачем |
 |---|---|---|---|---|
 | 1 | `izuchenie-kitayskogo-yazyka-s-nulya.png` | 1200×630 | большой ноль, от него три пронумерованные дорожки: звук, знак, фраза | обложка сразу задаёт порядок первой недели и снимает страх «начинать с иероглифов» |
-| 2 | `izuchenie-kitayskogo-yazyka-s-nulya-petlya.png` | 1200×700 | две петли обратной связи: замкнутая и разорванная, с перечнем навыков под каждой | объясняет **причину**, по которой одно берётся самому, а другое нет — таблицей этого не показать |
+| 2 | `izuchenie-kitayskogo-yazyka-s-nulya-petlya.png` | 1200×700 | две петли обратной связи: замкнутая и разорванная, с перечнем навыков под каждой | объясняет **причину**, по которой одно учится самому, а другое нет — таблицей этого не показать |
 
 Обе просмотрены глазами. Правки после просмотра: в замкнутой петле шаги шли против стрелок — порядок исправлен на «сделал → проверил → увидел ошибку → исправил»; на обложке средняя линия рисовала стрелку внутрь нуля, вместо этого добавлена нумерация шагов и одинаковые линии.
 
